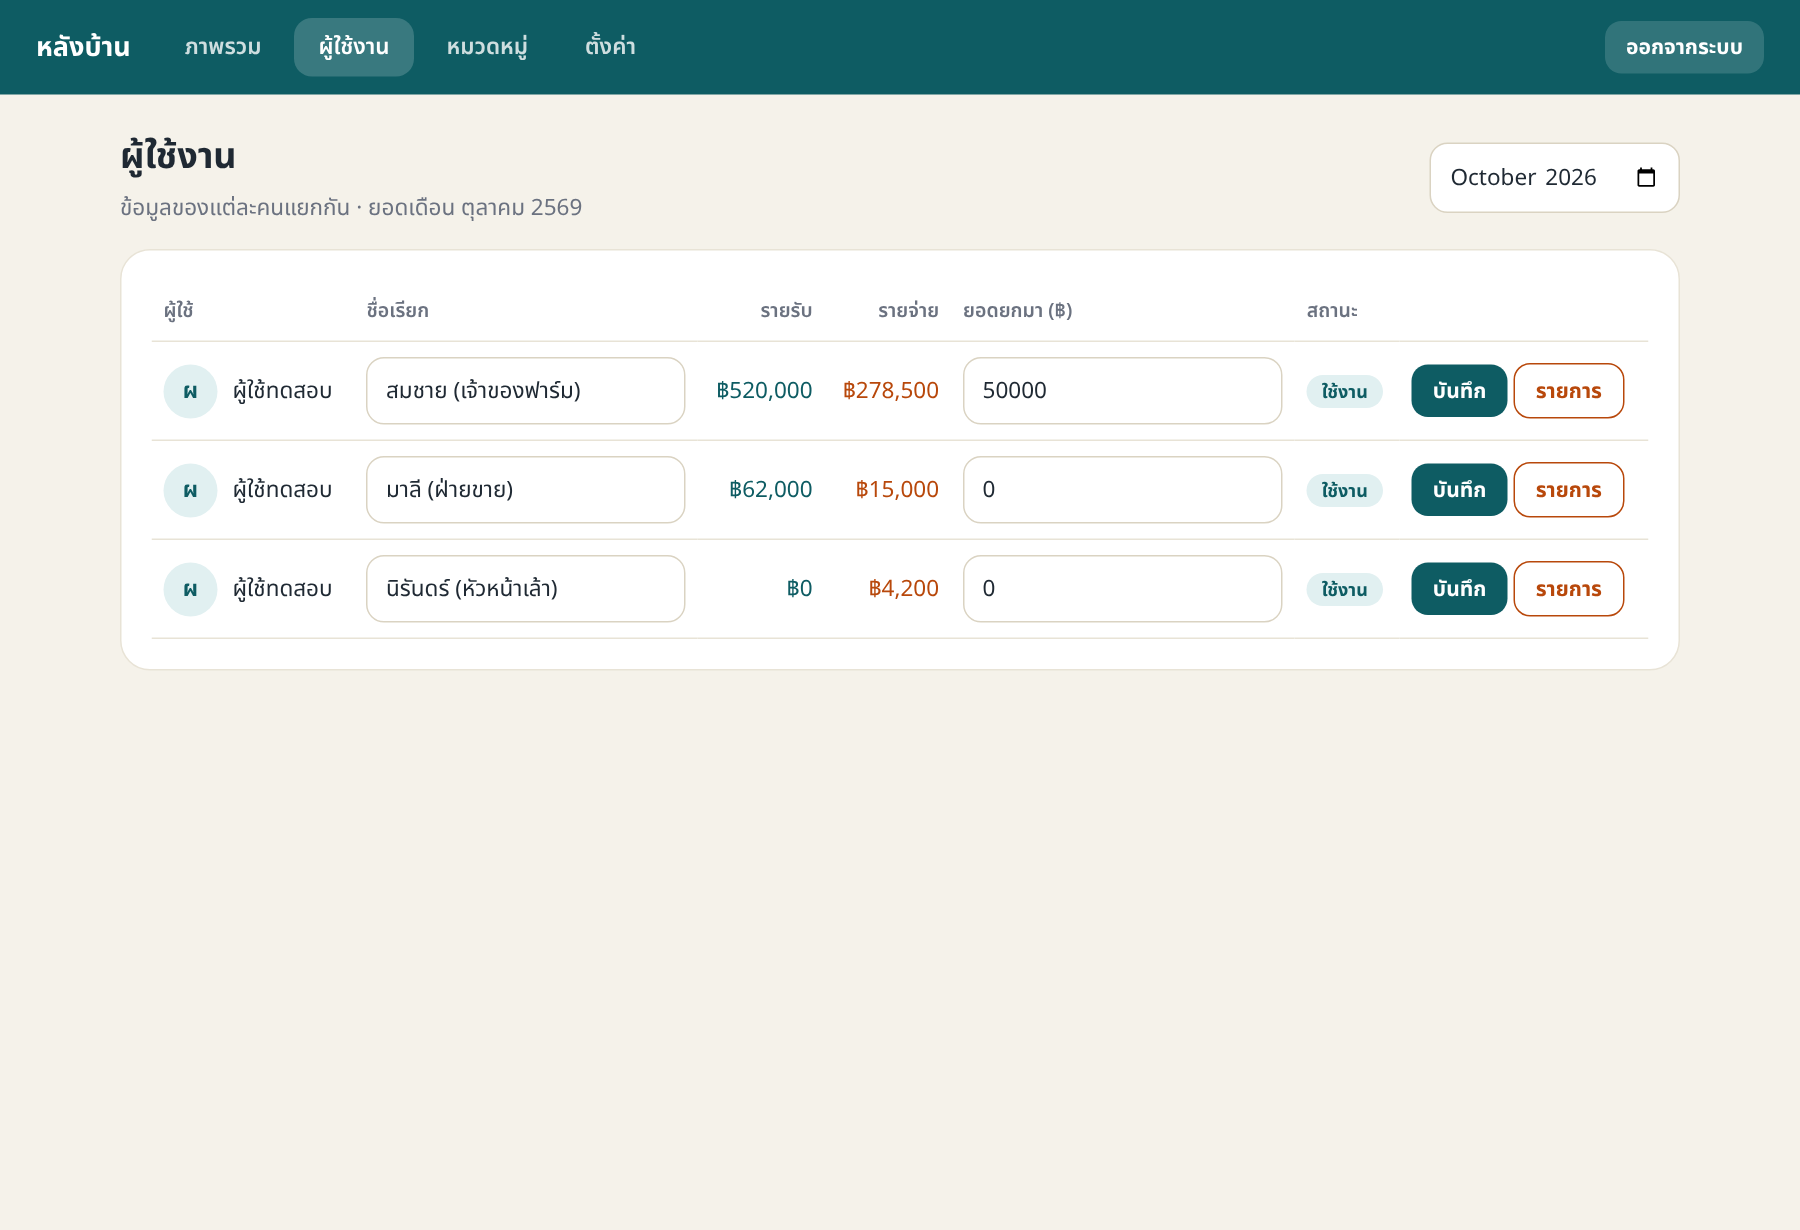
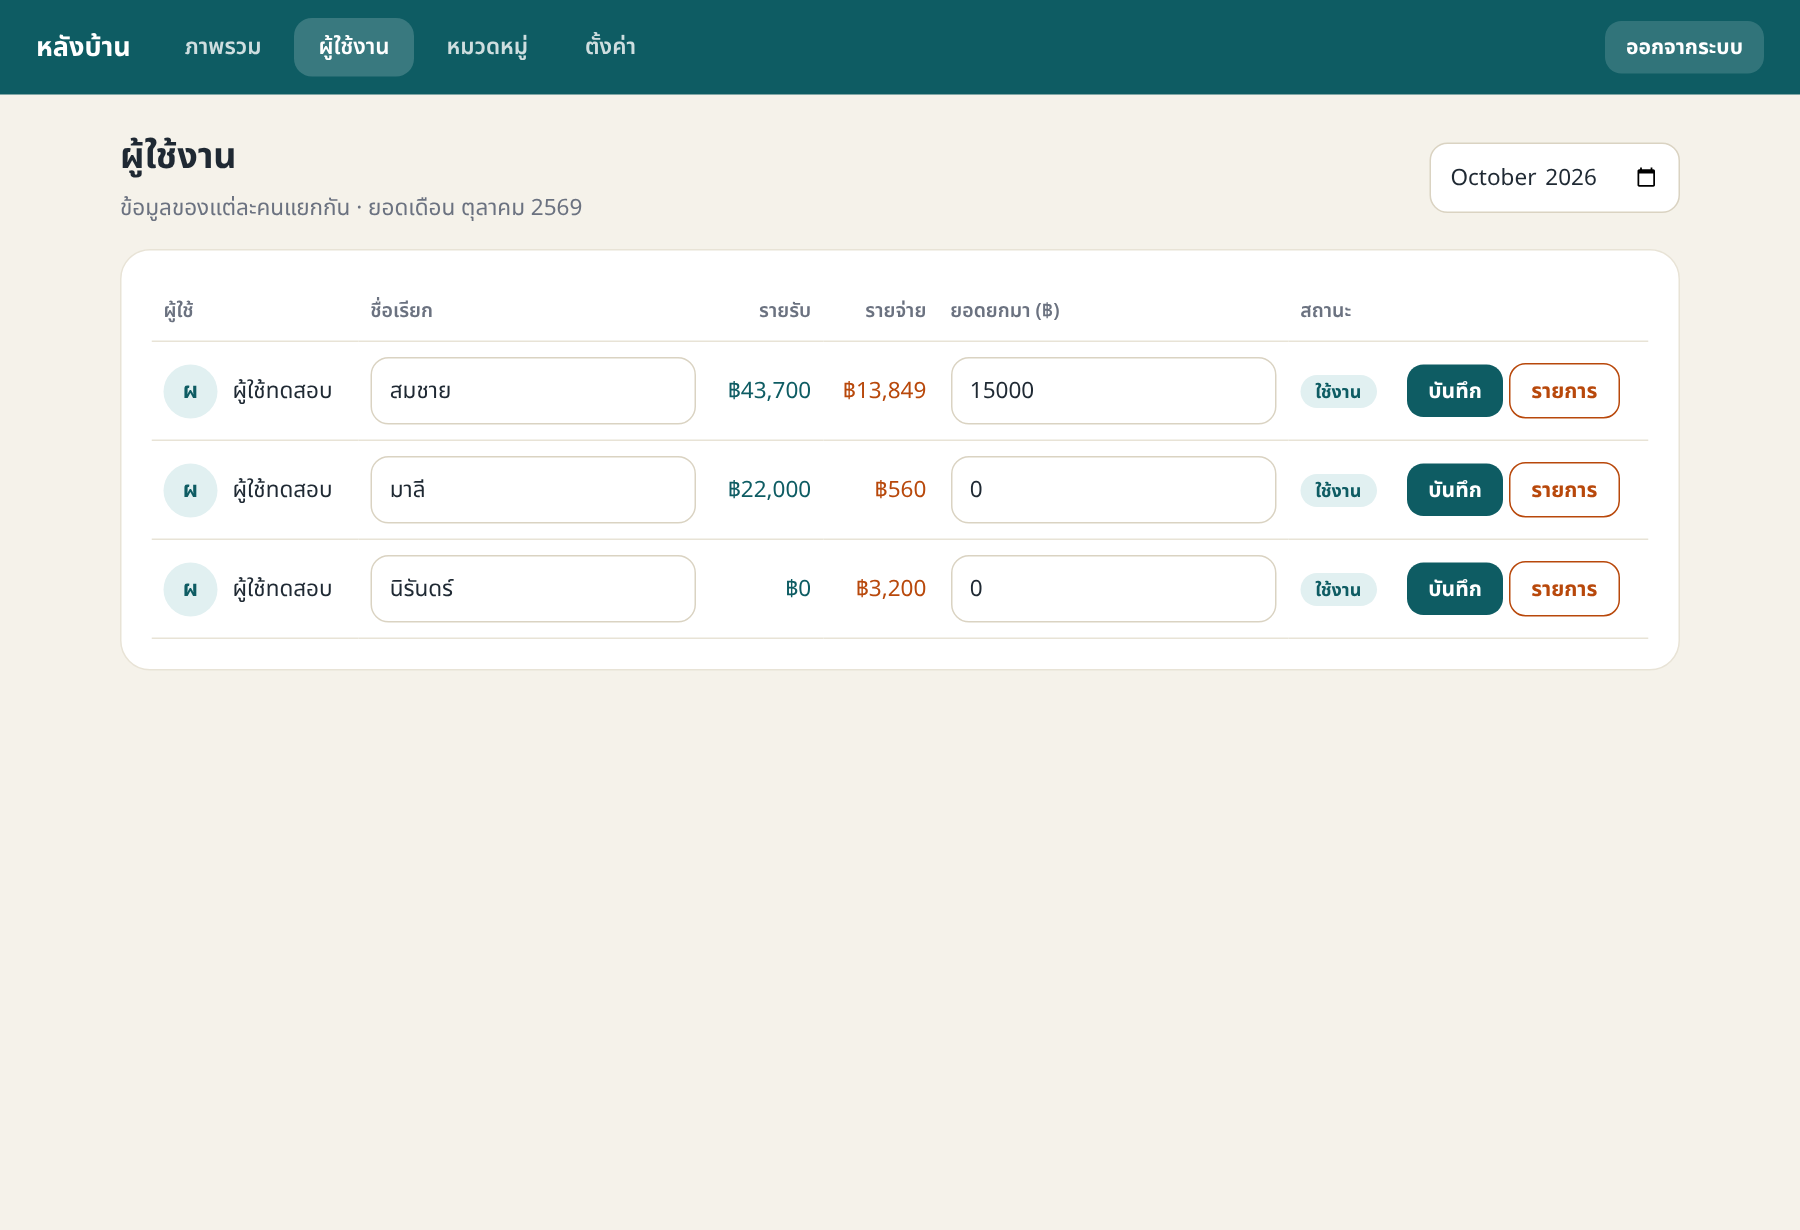
Make concept a general income/expense tracker: generic categories and sample data
Claude-Session: https://claude.ai/code/session_01KcyeFxeqTYSPenqbhsUbU2

diff --git a/test/api.test.js b/test/api.test.js
@@ -19,12 +19,12 @@ const call = async (path, { user = 'U1', method = 'GET', body, headers = {} } = 
 
 test('บันทึกรายรับ/รายจ่าย + สรุป + คงเหลือ + ยกเลิก + แยกผู้ใช้', async () => {
   assert.equal((await call('/api/summary', { user: null })).status, 401);
-  const e = await call('/api/transactions', { method: 'POST', body: { type: 'expense', amount: '48,000', category: 'อาหารหมู' } });
+  const e = await call('/api/transactions', { method: 'POST', body: { type: 'expense', amount: '48,000', category: 'อาหาร' } });
   assert.equal(e.status, 201);
-  const i = await call('/api/transactions', { method: 'POST', body: { type: 'income', amount: 125000, category: 'ขายหมูขุน', note: 'เขียงหมูสยาม' } });
-  const bad = await call('/api/transactions', { method: 'POST', body: { type: 'income', amount: 1, category: 'อาหารหมู' } });
+  const i = await call('/api/transactions', { method: 'POST', body: { type: 'income', amount: 125000, category: 'เงินเดือน', note: 'บริษัท' } });
+  const bad = await call('/api/transactions', { method: 'POST', body: { type: 'income', amount: 1, category: 'อาหาร' } });
   assert.equal(bad.status, 400);
-  assert.equal((await call('/api/transactions', { method: 'POST', body: { type: 'expense', amount: -5, category: 'อาหารหมู' } })).status, 400);
+  assert.equal((await call('/api/transactions', { method: 'POST', body: { type: 'expense', amount: -5, category: 'อาหาร' } })).status, 400);
 
   let s = (await call('/api/summary')).data;
   assert.equal(s.income, 125000); assert.equal(s.expense, 48000); assert.equal(s.balance, 77000);
@@ -63,8 +63,8 @@ test('webhook คำสั่งข้อความ', async () => {
   })(global.fetch);
   require('../src/config').channelAccessToken = 'tok';
   const say = async (t) => { sent.length = 0; await post([{ type: 'message', replyToken: 'r', source: { userId: 'U9' }, message: { type: 'text', text: t } }]); await new Promise((r) => setTimeout(r, 80)); return sent[0]?.messages[0].text; };
-  assert.match(await say('รับ 5000 ขายหมูขุน เขียงหมูสยาม'), /บันทึกรายรับ/);
-  assert.match(await say('จ่าย 300 อาหารหมู รำละเอียด'), /−฿300 · อาหารหมู/);
+  assert.match(await say('รับ 5000 เงินเดือน บริษัท'), /บันทึกรายรับ/);
+  assert.match(await say('จ่าย 300 อาหาร ข้าวมันไก่'), /−฿300 · อาหาร/);
   assert.match(await say('-120 ค่าอะไรก็ไม่รู้'), /อื่นๆ/);
   assert.match(await say('ยอด'), /฿4,580/);
   assert.match(await say('สรุป'), /รายจ่าย ฿420/);
@@ -85,9 +85,9 @@ test('หลังบ้าน', async () => {
   assert.equal((await call('/api/summary')).status, 403);
   await call('/admin/api/users/U1', { user: null, headers: h, method: 'PATCH', body: { active: true } });
   assert.equal((await call('/api/summary')).data.totalBalance, 126000);
-  const st = await call('/admin/api/settings', { user: null, headers: h, method: 'PUT', body: { shopName: 'ฟาร์มทดสอบ', categories: { expense: ['เช่า', 'อื่นๆ'] } } });
+  const st = await call('/admin/api/settings', { user: null, headers: h, method: 'PUT', body: { shopName: 'สมุดทดสอบ', categories: { expense: ['เช่า', 'อื่นๆ'] } } });
   assert.deepEqual(st.data.categories.expense, ['เช่า', 'อื่นๆ']);
-  assert.equal((await call('/api/config', { user: null })).data.shopName, 'ฟาร์มทดสอบ');
+  assert.equal((await call('/api/config', { user: null })).data.shopName, 'สมุดทดสอบ');
   const csv = await fetch(base + '/admin/api/export.csv', { headers: h });
   assert.match(await csv.text(), /วันที่/);
 });

diff --git a/src/routes/webhook.js b/src/routes/webhook.js
@@ -15,9 +15,9 @@ const code = (t) => t.id.slice(-4).toUpperCase();
 const sign = (t) => (t.type === 'income' ? '+' : '−') + baht(t.amount);
 
 const HELP = `📒 วิธีใช้งาน
-• รับ 50000 ขายหมูขุน เขียงหมูสยาม  → บันทึกรายรับ
-• จ่าย 3000 อาหารหมู รำละเอียด 10 กระสอบ  → บันทึกรายจ่าย
-  (ใช้ + หรือ - แทน รับ/จ่าย ได้ เช่น -500 ค่าไฟ-น้ำ)
+• รับ 25000 เงินเดือน เดือนตุลาคม  → บันทึกรายรับ
+• จ่าย 120 อาหาร ข้าวมันไก่  → บันทึกรายจ่าย
+  (ใช้ + หรือ - แทน รับ/จ่าย ได้ เช่น -45 เดินทาง รถไฟฟ้า)
 • ยอด  → ดูเงินคงเหลือ
 • สรุป  → สรุปรายรับ-รายจ่ายเดือนนี้
 • ประวัติ  → ดู 5 รายการล่าสุด
@@ -67,7 +67,7 @@ async function handleText(userId, raw) {
   // ประวัติ
   if (/^(ประวัติ|รายการ|รายการล่าสุด)$/.test(msg)) {
     const list = await tx.recent(userId, 5);
-    if (!list.length) return [text('ยังไม่มีรายการ ลองพิมพ์ เช่น "จ่าย 3000 อาหารหมู"', QUICK)];
+    if (!list.length) return [text('ยังไม่มีรายการ ลองพิมพ์ เช่น "จ่าย 120 อาหาร"', QUICK)];
     return [text('🕘 รายการล่าสุด\n' + list.map((t) => `${code(t)} · ${thDateShort(t.date)} · ${t.category}\n   ${sign(t)}${t.note ? ' · ' + t.note : ''}`).join('\n'), QUICK)];
   }
 
@@ -107,7 +107,7 @@ router.post('/', async (req, res) => {
         });
       }
       if (ev.type === 'follow') {
-        await line.reply(ev.replyToken, [text(`สวัสดี${user.displayName ? ' คุณ' + user.displayName : ''} 👋\nยินดีต้อนรับสู่ระบบบัญชีพิกกี้เลี้ยงหมู\n\n${HELP}${liffUrl() ? `\n\n📱 เปิดแอป: ${liffUrl()}` : ''}`, QUICK)]);
+        await line.reply(ev.replyToken, [text(`สวัสดี${user.displayName ? ' คุณ' + user.displayName : ''} 👋\nยินดีต้อนรับสู่พิกกี้เลี้ยงหมู ตัวช่วยจดรายรับ-รายจ่าย\n\n${HELP}${liffUrl() ? `\n\n📱 เปิดแอป: ${liffUrl()}` : ''}`, QUICK)]);
       } else if (ev.type === 'message' && ev.message.type === 'text') {
         if (user.active === false) { await line.reply(ev.replyToken, [text('บัญชีนี้ถูกระงับการใช้งาน')]); continue; }
         let msgs;

diff --git a/public/liff/app.js b/public/liff/app.js
@@ -148,7 +148,7 @@ function pageAdd() {
     <input class="inp" id="date" type="date" max="${todayStr()}" value="${esc(f.date)}">
     <p class="sub" id="date-th" style="margin:6px 4px 0">${esc(dayLabel(f.date))} · ${esc(fullDate(f.date))}</p>
     <label class="f" for="note">หมายเหตุ (ไม่ใส่ก็ได้)</label>
-    <input class="inp" id="note" maxlength="200" placeholder="${f.type === 'income' ? 'เช่น ขายหมูขุน 20 ตัว เขียงหมูสยาม' : 'เช่น รำละเอียด 10 กระสอบ'}" value="${esc(f.note)}">
+    <input class="inp" id="note" maxlength="200" placeholder="${f.type === 'income' ? 'เช่น เงินเดือนเดือนนี้' : 'เช่น ข้าวมันไก่ + น้ำเปล่า'}" value="${esc(f.note)}">
     <div id="form-err"></div>
     <button class="btn" id="save">${I.check}บันทึกรายการ</button></div>`;
   const amt = $('#amt');

diff --git a/src/config.js b/src/config.js
@@ -22,7 +22,7 @@ module.exports = {
 module.exports.defaultSettings = {
   shopName: 'พิกกี้เลี้ยงหมู',
   categories: {
-    expense: ['อาหารหมู', 'ลูกหมู/พันธุ์', 'ยาและวัคซีน', 'ค่าแรง', 'ค่าไฟ-น้ำ', 'อื่นๆ'],
-    income: ['ขายหมูขุน', 'ขายลูกหมู', 'รายรับอื่นๆ'],
+    expense: ['อาหาร', 'เดินทาง', 'ช้อปปิ้ง', 'ที่พัก', 'ค่าน้ำ-ไฟ', 'อื่นๆ'],
+    income: ['เงินเดือน', 'รายได้เสริม', 'รายรับอื่นๆ'],
   },
 };
